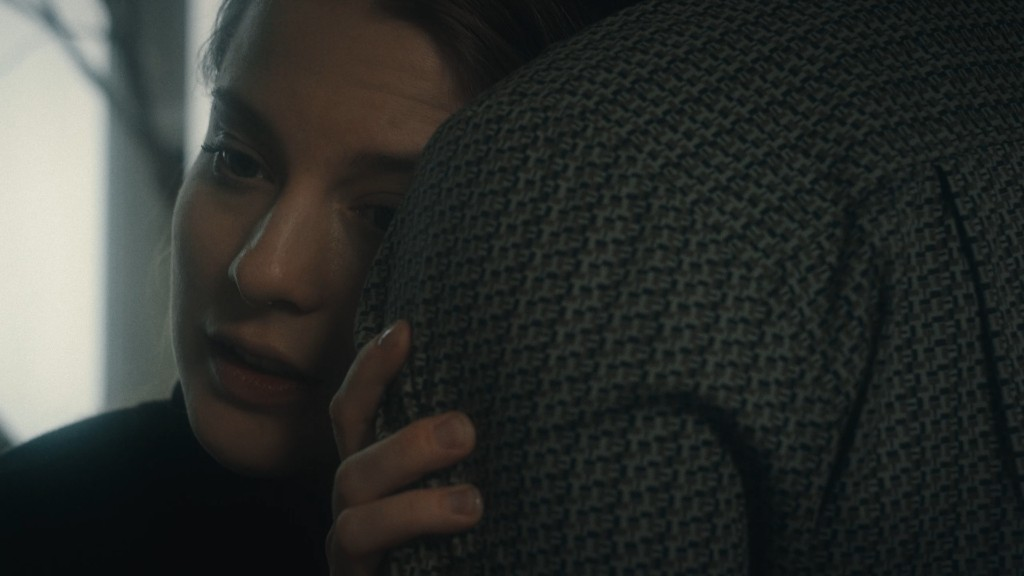
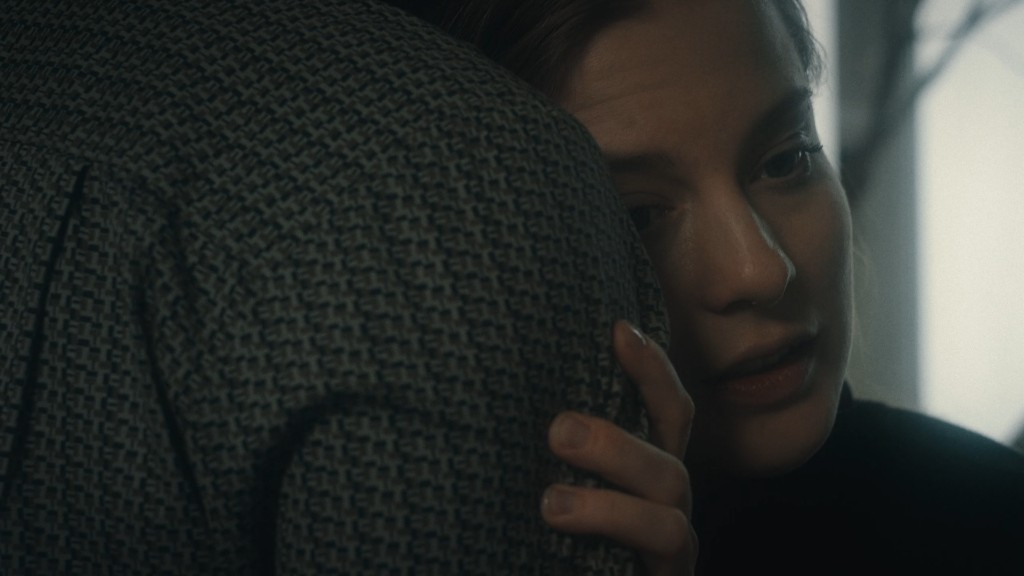
Кино: новая обложка для «Несезон»; док: HP вместо хп

diff --git a/Site-Osnovnoi/index.html b/Site-Osnovnoi/index.html
@@ -35,7 +35,7 @@
       href="https://fonts.googleapis.com/css2?family=IBM+Plex+Mono:wght@400;500&family=Outfit:wght@400;500;600&family=Syne:wght@600;700;800&display=swap"
       rel="stylesheet"
     />
-    <link rel="stylesheet" href="home.css?v=45" />
+    <link rel="stylesheet" href="home.css?v=46" />
     <script src="site.js?v=5" defer></script>
   </head>
   <body>
@@ -393,7 +393,7 @@
               rel="noreferrer"
             >
               <span class="work-tile__tag">Interview</span>
-              <span class="work-tile__name">Проверяем хп сообщества</span>
+              <span class="work-tile__name">Проверяем HP сообщества</span>
               <span class="work-tile__hint">ВКонтакте</span>
             </a>
           </div>

diff --git a/index.html b/index.html
@@ -39,7 +39,7 @@
       href="https://fonts.googleapis.com/css2?family=IBM+Plex+Mono:wght@400;500&family=Outfit:wght@400;500;600&family=Syne:wght@600;700;800&display=swap"
       rel="stylesheet"
     />
-    <link rel="stylesheet" href="home.css?v=45" />
+    <link rel="stylesheet" href="home.css?v=46" />
     <script src="site.js?v=5" defer></script>
   </head>
   <body>
@@ -397,7 +397,7 @@
               rel="noreferrer"
             >
               <span class="work-tile__tag">Interview</span>
-              <span class="work-tile__name">Проверяем хп сообщества</span>
+              <span class="work-tile__name">Проверяем HP сообщества</span>
               <span class="work-tile__hint">ВКонтакте</span>
             </a>
           </div>

diff --git a/Site-Osnovnoi/home.css b/Site-Osnovnoi/home.css
@@ -884,7 +884,7 @@ button.work-tile {
 }
 
 .work-tile--cinema-nesezon::before {
-  background-image: url("images/work-cinema-nesezon.png"), linear-gradient(135deg, #1a1a24, #0c0c10);
+  background-image: url("images/work-cinema-nesezon.png?v=2"), linear-gradient(135deg, #1a1a24, #0c0c10);
   background-position: center center;
 }
 

diff --git a/home.css b/home.css
@@ -886,7 +886,7 @@ button.work-tile {
 }
 
 .work-tile--cinema-nesezon::before {
-  background-image: url("images/work-cinema-nesezon.png"), linear-gradient(135deg, #1a1a24, #0c0c10);
+  background-image: url("images/work-cinema-nesezon.png?v=2"), linear-gradient(135deg, #1a1a24, #0c0c10);
   background-position: center center;
 }
 
